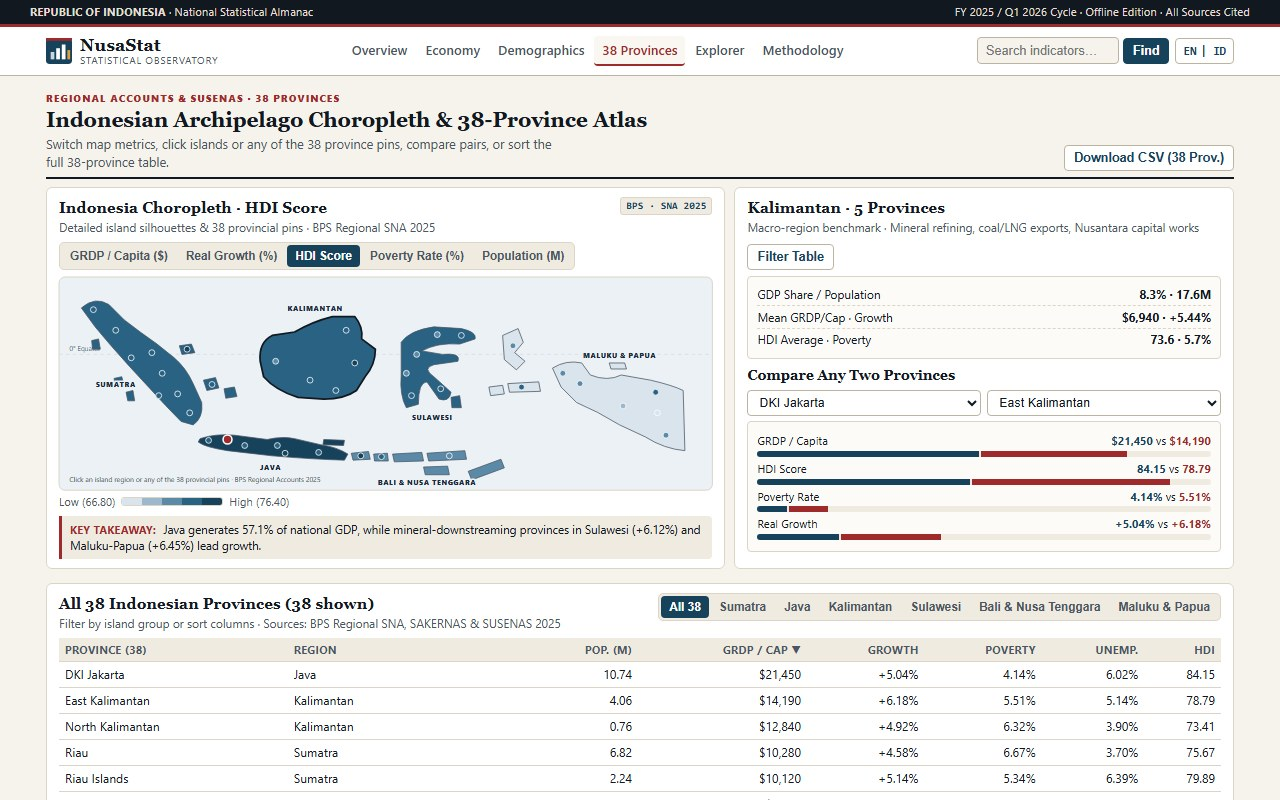
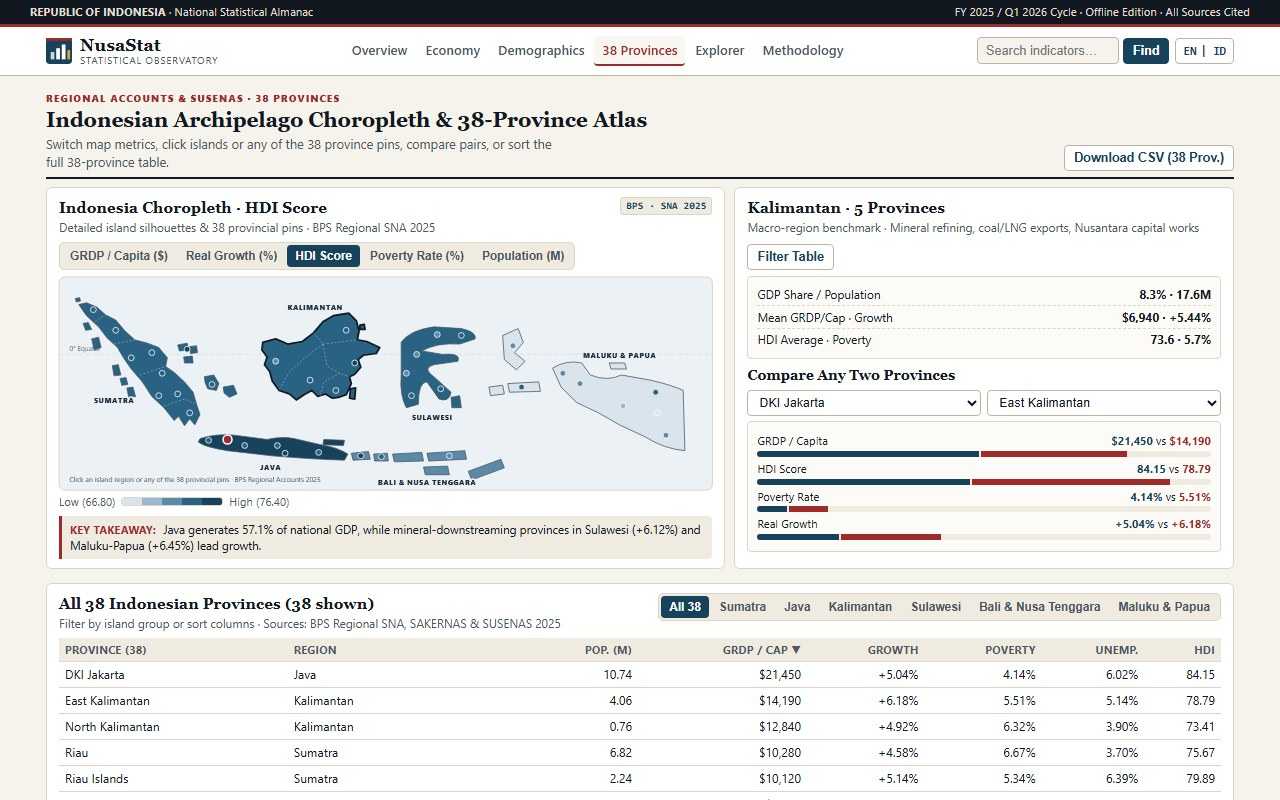
Sharpen Sumatra and Kalimantan coastal vector paths with internal borders

Changed region(s): [[0.0625, 0.375, 0.2812, 0.5312], [0.2812, 0.4062, 0.3125, 0.4688]]

diff --git a/app/data/archipelago-paths.js b/app/data/archipelago-paths.js
@@ -2,20 +2,36 @@
 
 export const ARCHIPELAGO_PATHS = {
   sumatra: [
-    'M 26 36 Q 42 22 58 32 L 76 50 Q 94 64 114 78 L 134 94 Q 148 106 156 124 L 166 146 Q 168 164 156 172 L 142 168 Q 124 150 106 130 L 82 104 Q 60 80 42 58 Z',
-    'M 38 74 L 46 72 L 48 84 L 39 84 Z',
-    'M 64 118 L 73 116 L 76 128 L 66 128 Z',
-    'M 78 134 L 86 132 L 88 144 L 80 144 Z',
-    'M 140 80 L 154 78 L 158 88 L 143 90 Z',
-    'M 168 120 L 182 117 L 186 129 L 172 132 Z',
-    'M 192 130 L 204 128 L 207 139 L 194 141 Z',
+    // Aceh -> Malacca Strait -> Riau -> Jambi -> Palembang -> Teluk Lampung -> Sunda Strait -> Semangka -> Bengkulu -> Padang -> Sibolga -> Aceh
+    'M 23 32 L 32 30 L 44 35 L 54 44 L 66 50 L 76 62 L 88 73 L 103 77 L 116 82 L 126 94 L 124 104 L 134 111 L 146 122 L 156 134 L 160 148 L 164 160 L 158 172 L 152 165 L 146 173 L 139 162 L 134 167 L 122 152 L 108 139 L 97 122 L 84 107 L 75 94 L 68 82 L 56 71 L 46 58 L 32 45 Z',
+    // Pulau Weh (Sabang)
+    'M 19 25 L 24 24 L 25 28 L 20 29 Z',
+    // Simeulue
+    'M 28 54 L 34 53 L 38 61 L 31 62 Z',
+    // Nias
+    'M 38 72 L 46 70 L 49 82 L 41 85 Z',
+    // Mentawai chain (Siberut, Sipora, Pagai)
+    'M 62 103 L 69 102 L 72 114 L 64 115 Z',
+    'M 71 118 L 78 117 L 80 125 L 73 126 Z',
+    'M 79 129 L 86 128 L 89 139 L 81 140 Z',
+    // Riau Islands (Batam, Bintan, Lingga)
+    'M 138 79 L 149 77 L 151 85 L 140 86 Z',
+    'M 152 81 L 160 80 L 161 88 L 153 89 Z',
+    'M 145 93 L 155 92 L 156 100 L 146 100 Z',
+    // Bangka & Belitung
+    'M 169 116 L 180 114 L 186 124 L 183 132 L 173 130 L 170 123 Z',
+    'M 191 128 L 203 126 L 207 136 L 198 140 L 192 135 Z',
   ].join(' '),
   java: [
     'M 164 188 Q 182 182 204 184 L 242 189 Q 260 185 274 188 L 304 195 Q 324 198 336 206 L 332 213 Q 294 212 248 208 L 196 202 Q 170 198 162 192 Z',
     'M 308 189 L 332 190 L 331 196 L 307 195 Z',
   ].join(' '),
   kalimantan: [
-    'M 234 98 Q 232 76 248 68 L 274 64 Q 294 52 318 46 L 344 46 Q 354 58 352 72 L 368 84 Q 368 102 356 116 L 346 132 Q 332 142 308 142 L 278 140 Q 252 132 238 116 Z',
+    // Sambas/Tanjung Datu -> Sarawak/Kapuas Hulu border -> North Kalimantan -> Mangkalihat Peninsula -> Mahakam/Balikpapan -> Tanah Bumbu -> Banjarmasin -> Sampit/Tanjung Puting -> Pontianak
+    'M 237 76 L 252 72 L 266 78 L 283 75 L 296 65 L 307 52 L 319 45 L 337 42 L 346 51 L 349 63 L 347 73 L 358 75 L 373 82 L 369 89 L 354 91 L 348 96 L 351 105 L 344 113 L 338 116 L 340 124 L 334 137 L 325 140 L 318 141 L 310 136 L 301 139 L 294 132 L 285 137 L 276 143 L 268 136 L 256 132 L 248 121 L 245 110 L 239 102 L 242 93 L 236 85 Z',
+    // Pulau Laut (South Kalimantan) & Tarakan
+    'M 339 130 L 345 129 L 344 142 L 338 141 Z',
+    'M 350 56 L 355 55 L 356 61 L 350 61 Z',
   ].join(' '),
   sulawesi: [
     'M 398 76 Q 408 62 436 58 L 468 60 Q 486 64 484 72 L 466 78 Q 440 76 422 86 L 446 90 Q 468 88 464 98 L 436 102 Q 422 106 436 116 L 456 134 Q 454 146 442 142 L 428 122 Q 418 122 418 148 L 404 152 Q 396 138 398 114 Z',
@@ -38,10 +54,23 @@ export const ARCHIPELAGO_PATHS = {
   ].join(' '),
 };
 
+export const INTERNAL_BORDERS = [
+  // Kalimantan provincial lines (West / Central / South / East / North)
+  'M 256 131 L 269 109 L 284 96 L 296 86 L 307 78 L 296 65',
+  'M 307 78 L 323 76 L 347 73',
+  'M 307 78 L 312 104 L 326 112 L 338 116',
+  'M 304 138 L 308 122 L 319 116 L 326 112',
+  // Sumatra internal ridge / provincial divisions
+  'M 42 52 L 54 44',
+  'M 64 78 L 88 73',
+  'M 94 114 L 124 104',
+  'M 122 150 L 146 142 L 160 148',
+].join(' ');
+
 export const REGION_LABELS = [
-  { x: 66, y: 128, text: 'SUMATRA' },
+  { x: 64, y: 146, text: 'SUMATRA' },
   { x: 246, y: 224, text: 'JAVA' },
-  { x: 298, y: 40, text: 'KALIMANTAN' },
+  { x: 298, y: 38, text: 'KALIMANTAN' },
   { x: 434, y: 166, text: 'SULAWESI' },
   { x: 428, y: 242, text: 'BALI & NUSA TENGGARA' },
   { x: 652, y: 94, text: 'MALUKU & PAPUA' },

diff --git a/app/components/map-svg.js b/app/components/map-svg.js
@@ -1,6 +1,6 @@
 // Choropleth SVG map renderer for the Indonesian archipelago (6 macro-regions + 38 provincial pins)
 
-import { ARCHIPELAGO_PATHS, REGION_LABELS } from '../data/archipelago-paths.js';
+import { ARCHIPELAGO_PATHS, INTERNAL_BORDERS, REGION_LABELS } from '../data/archipelago-paths.js';
 import { esc } from './ui.js';
 
 const PALETTE = ['#d9e4ec', '#9cb8cc', '#5b8aa8', '#2a6284', '#16425b'];
@@ -64,6 +64,7 @@ export function renderArchipelagoMap({
       <text x="12" y="86" font-size="7.8" fill="#64748b">0° Equator</text>
       <text x="12" y="238" font-size="8" fill="#4b5563">Click an island region or any of the 38 provincial pins · BPS Regional Accounts 2025</text>
       ${islandsSvg}
+      <path d="${INTERNAL_BORDERS}" fill="none" stroke="rgba(255,255,255,0.48)" stroke-width="0.75" stroke-dasharray="2.5 2" pointer-events="none" />
       ${pinsSvg}
       ${labelsSvg}
     </svg>
